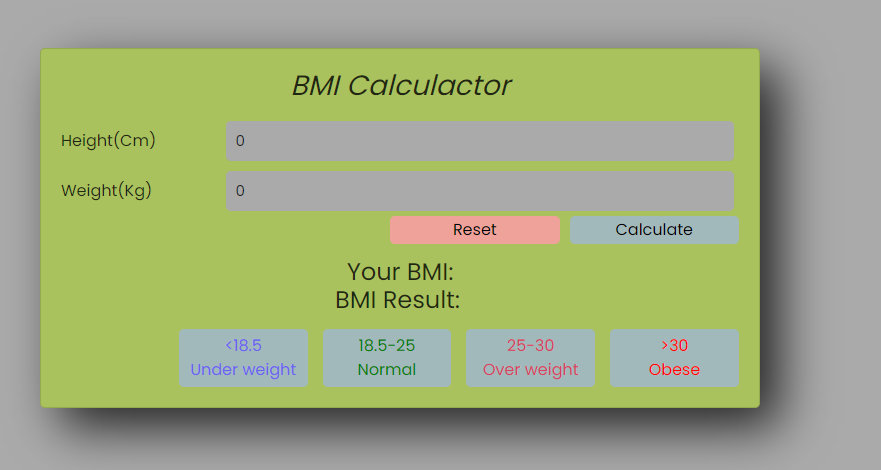
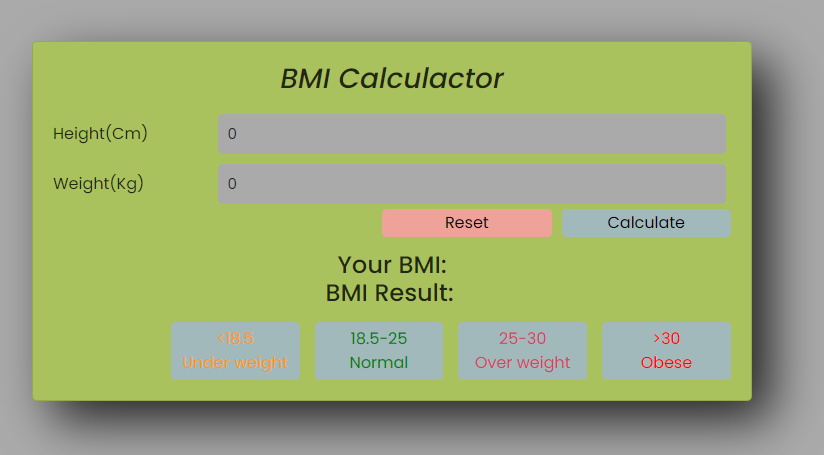
add randomQuotesApp

Changed region(s): [[0.0303, 0.0923, 0.9709, 0.9538], [0.3337, 0.1538, 0.6068, 0.2154], [0.4248, 0.4615, 0.4854, 0.5231]]

diff --git a/src/app/main-components/home/home.component.css b/src/app/main-components/home/home.component.css
@@ -42,14 +42,15 @@ body{
 }
 
 .container .card:after{
-  content: 'CreatedBy: Yunus Emre Gündüz';
+  content: 'Created by Yunus Emre Gündüz';
   position: absolute;
-  top: 60%;
-  left: 20%;
-  font-size: 2em;
+  top: 0;
+  left: 3px;
+  
+  font-size: 1em;
   font-weight: 900;
   font-style: italic;
-  color: rgba(255,255,25,0.05)
+  color: rgba(255, 255, 255, 0.15)
 }
 
 .container .card .imgBx{
@@ -99,7 +100,7 @@ body{
   margin: 0;
 }
 
-.container .card .contentBx .size, .container .card .contentBx .color {
+.container .card .contentBx .description{
   display: flex;
   justify-content: center;
   align-items: center;
@@ -110,19 +111,19 @@ body{
   padding-bottom: 0;
 }
 
-.container .card:hover .contentBx .size{
+.container .card:hover .contentBx .description{
   opacity: 1;
   visibility: visible;
   transition-delay: 0.5s;
 }
 
-.container .card:hover .contentBx .color{
+.container .card:hover {
   opacity: 1;
   visibility: visible;
   transition-delay: 0.6s;
 }
 
-.container .card .contentBx .size h5, .container .card .contentBx .color h3{
+.container .card .contentBx .description h5{
   color: #fff;
   font-weight: 300;
   font-size: 12px;
@@ -150,5 +151,4 @@ body{
   opacity: 1;
   transform: translateY(15px);
   transition-delay: 0.3s;
-  
 }

diff --git a/src/app/random-quotes/random-quotes.component.ts b/src/app/random-quotes/random-quotes.component.ts
@@ -1,0 +1,44 @@
+
+import { Component, OnInit } from '@angular/core';
+import { QuateModel } from './models/quoteModel';
+import { QuoteService } from './services/quote.service';
+
+@Component({
+  selector: 'app-random-quotes',
+  templateUrl: './random-quotes.component.html',
+  styleUrls: ['./random-quotes.component.css']
+})
+export class RandomQuotesComponent implements OnInit {
+
+  quotes : QuateModel[]=[];
+  quote: QuateModel = new QuateModel();
+  cardColor:string
+  warning:string
+  constructor(private quoteService:QuoteService) { }
+
+  ngOnInit(): void {
+    this.getAllQuotes()
+    this.quote.author=""
+  }
+
+  getAllQuotes(){
+    this.quoteService.getAllQuotes().subscribe(response=>{
+      this.quotes = response
+    })
+  }
+  getRandomQuote(){
+    var quoteCount = this.quotes.length
+    let randomNumber = Math.floor(Math.random()*quoteCount);
+    this.quote = this.quotes[randomNumber];
+  }
+  generateRandomColor()
+  {
+     this.cardColor='rgb('+Math.round(Math.random()*255)+','+Math.round(Math.random()*255)+','+Math.round(Math.random()*255)+')';
+  }
+  shareTweet(){
+    if(this.quote.text.length>0){
+      window.open("https://twitter.com/intent/tweet?hashtags=FatmaNurKaraman&text="+this.quote.text,"_blank")
+    }
+  }
+
+}

diff --git a/src/app/random-quotes/random-quotes.component.css b/src/app/random-quotes/random-quotes.component.css
@@ -1,0 +1,58 @@
+body{
+    
+    min-height: 100vh;
+    background-color: #b6bcc2cb;
+    font-family: 'Poppins',sans-serif;
+
+}
+.container{
+    display: flex;
+    max-width: 800px;
+    justify-content: center;
+    align-items: center;
+    height: 600px;
+
+}
+.card-header{
+    display: flex;
+    justify-content: center;
+    border-bottom: 2px solid #e0e2e4!important;
+
+}
+#primary-card{
+    background-color: #8d9db6;
+    width: 100%;
+    height: 60%;
+    box-shadow: 20px 20px 50px rgba(0, 0, 0, .8);
+    border:none
+}
+#secondary-card{
+    overflow-y: auto;
+    margin-top: 15px;
+    height: 60%;
+    border-radius: 10px 0 10px 0;
+    padding: 3px;
+    font-family: 'Lucida Sans', 'Lucida Sans Regular', 'Lucida Grande', 'Lucida Sans Unicode', Geneva, Verdana, sans-serif;
+}
+.button-group{
+    margin-top:2%;
+    display: flex;
+    justify-content: flex-end;
+}
+.button-group>button{
+    display:flex;
+    align-items: center;
+    justify-content: center;
+    height: 40px;
+    width: 60px;
+    margin-left:10px;
+    background-color: #e0e2e4;
+    border-radius: 10px;
+    border:0 
+}
+.button-retweet:hover{
+    color:#42b883 ;
+}
+.button-twitter:hover{
+    color: #1DA1F2;
+}

diff --git a/src/app/random-quotes/random-quotes.component.html b/src/app/random-quotes/random-quotes.component.html
@@ -1,0 +1,22 @@
+<body>
+    <div class="container">
+        <div class="card" id="primary-card">
+            <div class="card-header">
+                <h3>Random Quotes App</h3>
+            </div>
+            <div class="card-body">
+                <div class="card" id="secondary-card"  >
+                    <p *ngIf="quote.text!=null" [style.color]="cardColor" >{{quote.text}}</p> 
+                    <p *ngIf="quote.text==null" >
+                        Generate a random quote using the button below and share it via the other button.</p>           
+                    <p ><b *ngIf="quote.author!=null">{{quote.author}}</b> <b *ngIf="quote.author==null">Anonymous</b></p>             
+                </div>
+                <div class="button-group">
+                    <button class="button-retweet" (click)="getRandomQuote()" (click)="generateRandomColor()"><i class="fas fa-retweet fa-lg"></i> </button>
+                    <button class="button-twitter" (click)="shareTweet()" target="_blank"><i class="fab fa-twitter fa-lg"></i> </button>
+                </div>
+            </div>
+            
+        </div>
+    </div>
+</body>

diff --git a/src/app/main-components/home/home.component.ts b/src/app/main-components/home/home.component.ts
@@ -12,7 +12,8 @@ export class HomeComponent implements OnInit {
 
   apps:AppModel[]= [
     {name:"Todo App",primaryColor:'#ff6793',secondaryColor:"rgba(0, 0, 0, .8)",description:"A basic todo app",srcImage:"./assets/images/todo-app.png",routerLink:"todo-app"},
-    {name:"BMI Calculator",primaryColor:'#a9c25d',secondaryColor:"#AAAAAA",description:"You can calculate your body mass index.", srcImage:"./assets/images/bmiCalculator-app.png",routerLink:"bmicalculator-app"}
+    {name:"BMI Calculator",primaryColor:'#a9c25d',secondaryColor:"#AAAAAA",description:"You can calculate your body mass index.", srcImage:"./assets/images/bmiCalculator-app.png",routerLink:"bmicalculator-app"},
+    {name:"Random Quotes",primaryColor:'#8d9db6',secondaryColor:"#b6bcc2cb",description:"You can generate a random quote for sharing", srcImage:"./assets/images/randomQuotes-app.png",routerLink:"randomquotes-app"}
   ]
   ngOnInit(): void {
   }

diff --git a/src/app/app.module.ts b/src/app/app.module.ts
@@ -8,19 +8,23 @@ import { TodoAppComponent } from './todo-app/todo-app/todo-app.component';
 import {BrowserAnimationsModule} from '@angular/platform-browser/animations';
 import { HomeComponent } from './main-components/home/home.component';
 import { BmiComponent } from './bmi-app/bmi/bmi.component';
+import { RandomQuotesComponent } from './random-quotes/random-quotes.component';
+import { HttpClientModule } from '@angular/common/http';
 @NgModule({
   declarations: [
     AppComponent,
     TodoAppComponent,
     HomeComponent,
     BmiComponent,
+    RandomQuotesComponent,
   ],
   imports: [
     BrowserModule,
     AppRoutingModule,
     ReactiveFormsModule,
     BrowserAnimationsModule,
-    FormsModule
+    FormsModule,
+    HttpClientModule
   ],
   providers: [],
   bootstrap: [AppComponent]

diff --git a/src/app/app-routing.module.ts b/src/app/app-routing.module.ts
@@ -2,10 +2,12 @@ import { NgModule } from '@angular/core';
 import { RouterModule, Routes } from '@angular/router';
 import { BmiComponent } from './bmi-app/bmi/bmi.component';
 import { HomeComponent } from './main-components/home/home.component';
+import { RandomQuotesComponent } from './random-quotes/random-quotes.component';
 import { TodoAppComponent } from './todo-app/todo-app/todo-app.component';
 
 const routes: Routes = [
   {path:"",component:HomeComponent},
+  {path:"randomquotes-app",component:RandomQuotesComponent},
   {path:"bmicalculator-app",component:BmiComponent},
   {path:"todo-app",component:TodoAppComponent},
 ];

diff --git a/src/app/main-components/home/home.component.html b/src/app/main-components/home/home.component.html
@@ -7,10 +7,10 @@
                 </div>
                 <div class="contentBx">
                   <h2 [style.color]="app.primaryColor">{{app.name}}</h2>
-                  <div class="size">
+                  <div class="description">
                       <h5>{{app.description}}</h5>
                   </div>
-                  <a [style.background-color]="app.primaryColor" [style.color]="app.secondaryColor" [routerLink]="app.routerLink">Go to app</a>
+                  <a [style.background-color]="app.primaryColor"  [routerLink]="app.routerLink">Go to app</a>
                 </div>
               </div>
         </div>

diff --git a/src/app/random-quotes/services/quote.service.ts b/src/app/random-quotes/services/quote.service.ts
@@ -1,0 +1,18 @@
+import { HttpClient } from '@angular/common/http';
+
+import { Injectable } from '@angular/core';
+import { QuateModel } from '../models/quoteModel';
+
+@Injectable({
+  providedIn: 'root'
+})
+export class QuoteService {
+
+  private apiUrl="https://type.fit/api/quotes"
+  constructor(private httpClient:HttpClient) { }
+  
+  getAllQuotes(){
+    let newPath = this.apiUrl;
+    return this.httpClient.get<QuateModel[]>(newPath);
+  }
+} 

diff --git a/src/app/bmi-app/bmi/bmi.component.ts b/src/app/bmi-app/bmi/bmi.component.ts
@@ -23,7 +23,7 @@ export class BmiComponent implements OnInit {
       this.bmiResult=parseFloat(this.bmiResult.toFixed(2))
       if(this.bmiResult<=18.5){
         this.bmiResultText = 'Under weight';
-        this.textColor='#6c62ee'
+        this.textColor='#FF9900'
       }
       else if(this.bmiResult>18.5 && this.bmiResult<=25){
         this.bmiResultText = "Normal"

diff --git a/src/app/bmi-app/bmi/bmi.component.css b/src/app/bmi-app/bmi/bmi.component.css
@@ -2,7 +2,7 @@
 body{
     position:relative;
     min-height: 100vh;
-    background-color: #AAAAAA;
+    background-color: #AAAAAA ; 
     font-family: 'Poppins',sans-serif;
 }
 
@@ -98,7 +98,7 @@ body{
     background-color: #a2b9bc;
 }
 .bmi-info .info:nth-child(1){
-    color: #6c62ee
+    color: #FF9900
 }
 .bmi-info .info:nth-child(2){
     color:green

diff --git a/src/app/random-quotes/models/quoteModel.ts b/src/app/random-quotes/models/quoteModel.ts
@@ -1,0 +1,4 @@
+export class QuateModel{
+    text:string
+    author:string
+}
